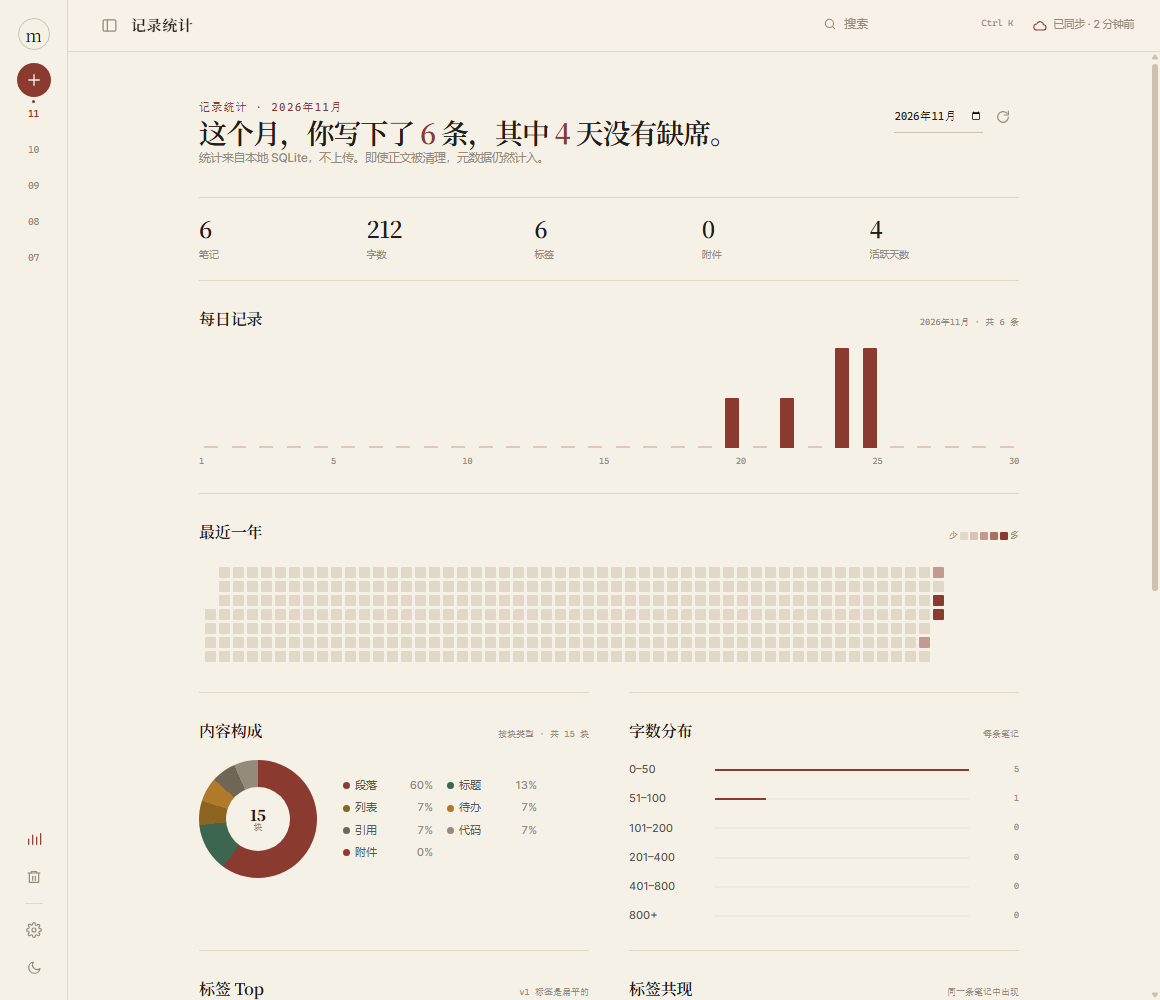
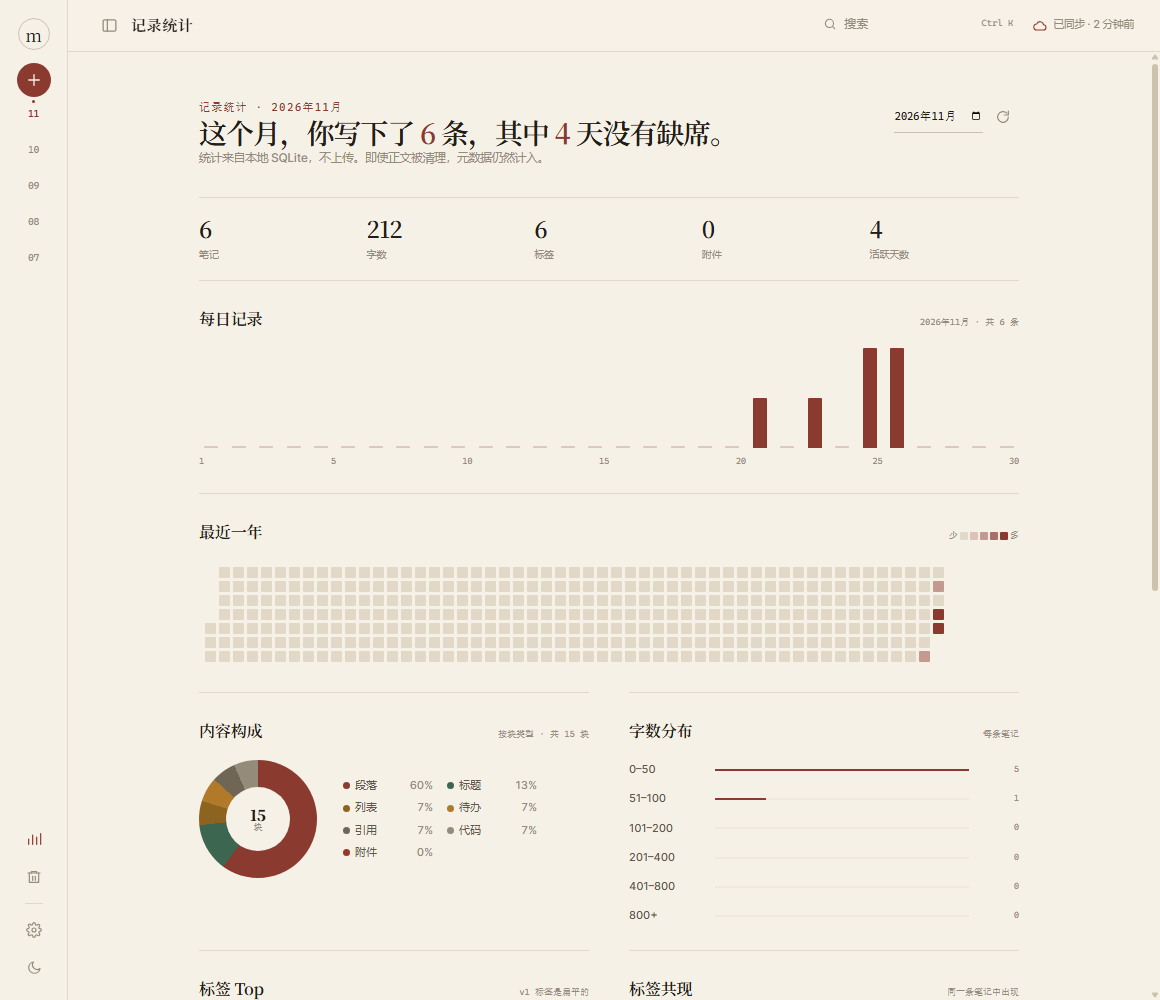
feat: show a word count while writing
- count words from the memo body in the composer footer\n- show the same count under the reader tags

diff --git a/frontend/src/components/Composer.tsx b/frontend/src/components/Composer.tsx
@@ -3,6 +3,8 @@ import type { Attachment } from "../types";
 import type { MemoDraftBackend } from "../backend";
 import { MarkdownEditor } from "./MarkdownEditor";
 import { fileToBase64 } from "../lib/files";
+import { countWords } from "../lib/format";
+import { blockText, blocksFromMarkdown } from "../lib/markdown";
 
 export function Composer({
   backend,
@@ -37,6 +39,7 @@ export function Composer({
   const now = new Date();
   const nowTime = `${String(now.getHours()).padStart(2, "0")}:${String(now.getMinutes()).padStart(2, "0")}`;
   const todayLabel = `${now.getMonth() + 1}月${now.getDate()}日 · ${nowTime}`;
+  const wordCount = countWords(blocksFromMarkdown(body).map(blockText).join(" "));
 
   const save = async () => {
     if (saving || uploading.current) return;
@@ -123,6 +126,9 @@ export function Composer({
       />
       <div className="composer-footer">
         {error && <span className="inline-error">{error}</span>}
+        <span className="composer-word-count" aria-label={`字数 ${wordCount}`}>
+          字数 {wordCount}
+        </span>
         <button type="button" className="send-button" onClick={() => void save()} disabled={saving} aria-label="保存笔记">
           {saving ? (
             <span className="spinner" />

diff --git a/frontend/src/styles/81-journal-writing.css b/frontend/src/styles/81-journal-writing.css
@@ -82,7 +82,7 @@
   justify-content: flex-start;
   gap: 4px;
   margin: 6px 0 0;
-  padding: 0 84px 0 0;
+  padding: 0 132px 0 0;
   min-height: 0;
 }
 
@@ -157,6 +157,14 @@
   display: flex;
   align-items: center;
   gap: 10px;
+}
+
+.composer-word-count {
+  flex: none;
+  color: var(--faint);
+  font-family: var(--mono);
+  font-size: 9.5px;
+  white-space: nowrap;
 }
 
 .composer-hint {
@@ -834,7 +842,15 @@
   line-height: 1.95;
 }
 
-.reader-body .editor-word-count,
+.reader-body .editor-word-count {
+  display: block;
+  margin-top: 10px;
+  color: var(--faint);
+  font-family: var(--mono);
+  font-size: 9.5px;
+  text-align: right;
+}
+
 .reader-body .tag-hint {
   display: none;
 }
